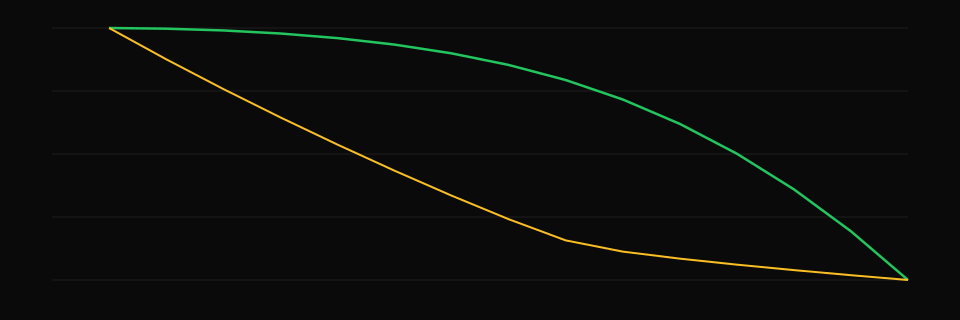
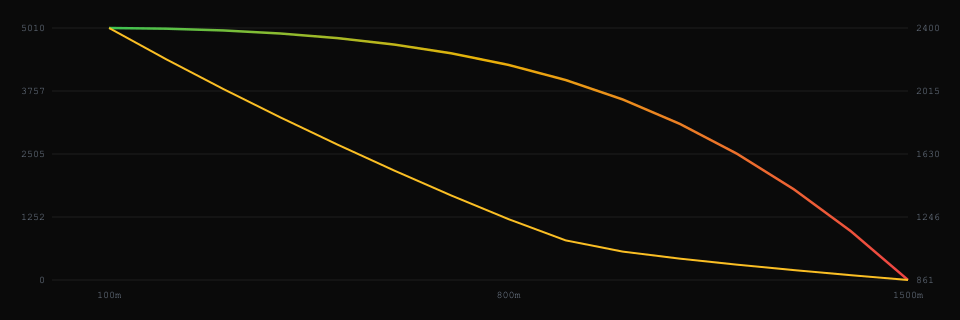
fix: PDF grafik render sorunu - veri tabanlı canvas + piksel doğrulama

diff --git a/src/lib/ballisticReportPdf.js b/src/lib/ballisticReportPdf.js
@@ -21,7 +21,85 @@ const CHART_EXPORT_MIN_HEIGHT = 80
  */
 
 /**
- * Recharts SVG çıktısını PNG data URL'e çevirir (PDF gömme için).
+ * PNG içinde gerçekten renkli çizgi pikseli var mı (eksens-only Recharts yakalamasını reddeder).
+ * @param {string} pngDataUrl
+ * @param {number} [minColoredPixels]
+ * @returns {Promise<boolean>}
+ */
+export function chartPngHasLineContent(pngDataUrl, minColoredPixels = 350) {
+  if (typeof document === 'undefined' || !pngDataUrl?.startsWith('data:image/png')) {
+    return Promise.resolve(false)
+  }
+
+  return new Promise((resolve) => {
+    const img = new Image()
+    img.onload = () => {
+      const canvas = document.createElement('canvas')
+      canvas.width = img.width
+      canvas.height = img.height
+      const ctx = canvas.getContext('2d')
+      if (!ctx) {
+        resolve(false)
+        return
+      }
+      ctx.drawImage(img, 0, 0)
+      const data = ctx.getImageData(0, 0, canvas.width, canvas.height).data
+      let colored = 0
+      for (let i = 0; i < data.length; i += 16) {
+        const r = data[i]
+        const g = data[i + 1]
+        const b = data[i + 2]
+        if (r < 28 && g < 28 && b < 28) continue
+        if (g > 130 && r < 130) colored += 1
+        else if (r > 170 && g > 110 && b < 110) colored += 1
+        else if (r > 210 && g > 60 && b < 90) colored += 1
+        if (colored >= minColoredPixels) break
+      }
+      resolve(colored >= minColoredPixels)
+    }
+    img.onerror = () => resolve(false)
+    img.src = pngDataUrl
+  })
+}
+
+/**
+ * PDF için güvenilir grafik PNG'si — önce veri tabanlı canvas, DOM yalnızca doğrulanırsa.
+ * @param {import('./ballisticsEngine.js').BallisticsPointResult[]} results
+ * @param {HTMLElement | null | undefined} [domContainer]
+ * @returns {Promise<{ chartImageDataUrl: string | null, chartSource: string, debug: ChartCaptureDebug[] }>}
+ */
+export async function resolveChartImageForPdf(results, domContainer) {
+  const debug = /** @type {ChartCaptureDebug[]} */ ([])
+
+  const dataPng = buildBallisticChartPngFromResults(results)
+  if (dataPng && (await chartPngHasLineContent(dataPng))) {
+    debug.push({ step: 'canvas-data', ok: true, detail: 'Veri tabanlı grafik doğrulandı' })
+    return { chartImageDataUrl: dataPng, chartSource: 'canvas-data', debug }
+  }
+
+  if (domContainer) {
+    const domPng = await chartContainerToPngDataUrl(domContainer, { debug })
+    if (domPng && (await chartPngHasLineContent(domPng))) {
+      debug.push({ step: 'dom', ok: true, detail: 'DOM grafik doğrulandı' })
+      return { chartImageDataUrl: domPng, chartSource: 'dom', debug }
+    }
+    debug.push({
+      step: 'dom-reject',
+      ok: false,
+      detail: 'DOM PNG eksen-only (gradyan stroke rasterize edilmedi)',
+    })
+  }
+
+  if (dataPng) {
+    debug.push({ step: 'canvas-data-fallback', ok: true, detail: 'Doğrulama atlandı, veri PNG kullanıldı' })
+    return { chartImageDataUrl: dataPng, chartSource: 'canvas-data', debug }
+  }
+
+  return { chartImageDataUrl: null, chartSource: 'none', debug }
+}
+
+/**
+ * DOM yakalama — Recharts SVG (gradyan stroke PDF'te genelde boş kalır; yedek amaçlı).
  * @param {HTMLElement | null | undefined} container
  * @param {{ debug?: ChartCaptureDebug[] }} [options]
  * @returns {Promise<string | null>}
@@ -177,10 +255,43 @@ export function buildBallisticChartPngFromResults(results, width = 960, height =
   ctx.stroke()
 
   ctx.fillStyle = 'rgba(148,163,184,0.85)'
-  ctx.font = '11px monospace'
-  ctx.fillText('Drop (cm)', pad.l, height - 14)
-  ctx.fillStyle = 'rgba(251,191,36,0.85)'
-  ctx.fillText('Velocity (fps)', pad.l + plotW - 110, height - 14)
+  ctx.font = '10px monospace'
+  ctx.textAlign = 'right'
+  for (let i = 0; i <= 4; i += 1) {
+    const frac = i / 4
+    const dropVal = Math.round(maxDrop * frac)
+    const y = pad.t + plotH - frac * plotH
+    ctx.fillText(String(dropVal), pad.l - 6, y + 3)
+  }
+
+  ctx.textAlign = 'left'
+  for (let i = 0; i <= 4; i += 1) {
+    const frac = i / 4
+    const velVal = Math.round(minVel + velSpan * (1 - frac))
+    const y = pad.t + frac * plotH
+    ctx.fillText(String(velVal), pad.l + plotW + 8, y + 3)
+  }
+
+  ctx.textAlign = 'center'
+  const tickDistances = [results[0].distance, results[Math.floor(results.length / 2)].distance, results[results.length - 1].distance]
+  tickDistances.forEach((d) => {
+    const x = xAt(d)
+    ctx.fillText(`${d}m`, x, height - 22)
+  })
+
+  ctx.textAlign = 'left'
+  ctx.fillStyle = 'rgba(34,197,94,0.9)'
+  ctx.fillText('Drop (cm)', pad.l, height - 8)
+  ctx.fillStyle = 'rgba(251,191,36,0.9)'
+  ctx.fillText('Velocity (fps)', pad.l + plotW - 110, height - 8)
+
+  ctx.strokeStyle = 'rgba(148,163,184,0.35)'
+  ctx.lineWidth = 1
+  ctx.beginPath()
+  ctx.moveTo(pad.l, pad.t)
+  ctx.lineTo(pad.l, pad.t + plotH)
+  ctx.lineTo(pad.l + plotW, pad.t + plotH)
+  ctx.stroke()
 
   const png = canvas.toDataURL('image/png')
   return png.startsWith('data:image/png') && png.length > 800 ? png : null
@@ -333,13 +444,12 @@ export async function exportBallisticReportPdf(output, meta = {}) {
     `Sayfa ${doc.getNumberOfPages()}: Menzil tablosu bitti (finalY=${(doc.lastAutoTable?.finalY ?? tableStart).toFixed(1)})`,
   )
 
-  let chartImageDataUrl = meta.chartImageDataUrl ?? null
-  let chartSource = 'none'
-  if (chartImageDataUrl) {
-    chartSource = 'dom'
-  } else {
-    chartImageDataUrl = buildBallisticChartPngFromResults(output.results)
-    if (chartImageDataUrl) chartSource = 'canvas-fallback'
+  let chartImageDataUrl = meta.chartImageDataUrl ?? buildBallisticChartPngFromResults(output.results)
+  let chartSource = chartImageDataUrl ? 'canvas-data' : 'none'
+  if (meta.chartImageDataUrl && (await chartPngHasLineContent(meta.chartImageDataUrl))) {
+    chartSource = meta.chartSource ?? 'dom'
+  } else if (!chartImageDataUrl) {
+    chartSource = 'none'
   }
 
   doc.addPage()

diff --git a/src/pages/Balistik.jsx b/src/pages/Balistik.jsx
@@ -17,9 +17,8 @@ import {
   runBallisticsForProfile,
 } from '../lib/ballisticProfileBridge'
 import {
-  buildBallisticChartPngFromResults,
-  chartContainerToPngDataUrl,
   exportBallisticReportPdf,
+  resolveChartImageForPdf,
 } from '../lib/ballisticReportPdf'
 import { weaponDisplayName } from '../lib/weaponIlws'
 
@@ -191,20 +190,16 @@ export default function Balistik() {
     if (!output) return
     setPdfBusy(true)
     const previousTab = resultTab
-    const captureDebug = /** @type {import('../lib/ballisticReportPdf.js').ChartCaptureDebug[]} */ ([])
     try {
       if (previousTab !== 'chart') {
         flushSync(() => setResultTab('chart'))
       }
-
       const chartEl = await waitForChartExportReady()
-      let chartImageDataUrl = chartEl ? await chartContainerToPngDataUrl(chartEl, { debug: captureDebug }) : null
-      let chartSource = chartImageDataUrl ? 'dom' : 'none'
 
-      if (!chartImageDataUrl) {
-        chartImageDataUrl = buildBallisticChartPngFromResults(output.results)
-        if (chartImageDataUrl) chartSource = 'canvas-fallback'
-      }
+      const { chartImageDataUrl, chartSource, debug: captureDebug } = await resolveChartImageForPdf(
+        output.results,
+        chartEl,
+      )
 
       if (import.meta.env.DEV) {
         console.info('[Balistik PDF] chart capture', {
@@ -218,6 +213,7 @@ export default function Balistik() {
       const reportMeta = await exportBallisticReportPdf(output, {
         profileName: String(form.profileName),
         chartImageDataUrl,
+        chartSource,
       })
 
       if (import.meta.env.DEV) {

diff --git a/public/firebase-messaging-sw.js b/public/firebase-messaging-sw.js
@@ -1,5 +1,5 @@
 /* Auto-generated by scripts/inject-fcm-sw.mjs — elle düzenlemeyin */
-/* Generated: 2026-07-06T02:34:41.675Z */
+/* Generated: 2026-07-06T02:46:38.554Z */
 importScripts('https://www.gstatic.com/firebasejs/12.12.0/firebase-app-compat.js');
 importScripts('https://www.gstatic.com/firebasejs/12.12.0/firebase-messaging-compat.js');
 